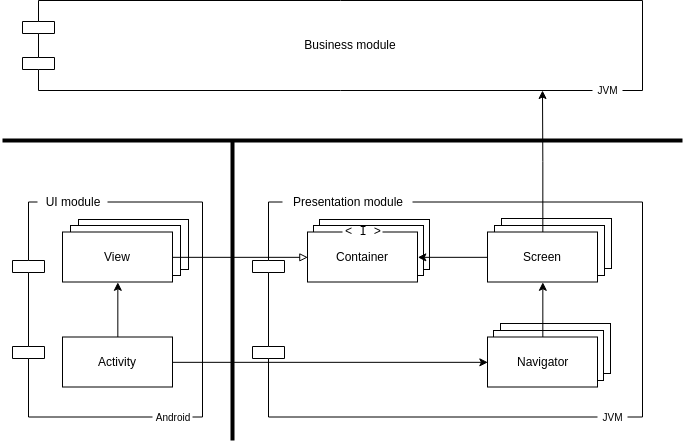
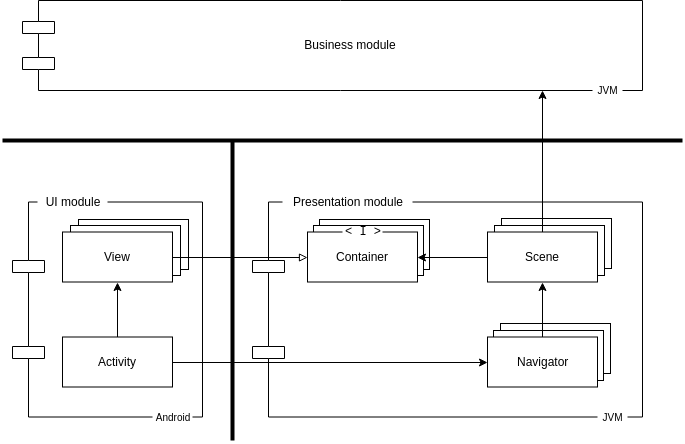
Update README

diff --git a/README.md b/README.md
@@ -13,6 +13,37 @@ separation between UI, presentation and navigation.
   <img src=".github/art/diagram_readme.png">
 </p>
 
+The core of Bravo consists of two interfaces: `Scene` and `Navigator`.
+
+Scenes represent destinations in the application where the user can navigate to.
+Often these are the screens of the application, but they can represent any
+navigational node in the application.
+
+Navigators control the navigational state of the application.
+They respond to events emitted by Scenes and update the navigational state
+accordingly, for example by changing the active Scene.
+
+Coupling to Android, the Activity subscribes to changes in Scenes by the
+Navigator, and provides the user interface.
+
+## Extensibility
+
+Bravo is fully extensible.
+The core artifacts (`bravo` and `bravo-android`) provide interfaces that are
+simple but powerful enough to form a basis for writing the presentation layer
+of mobile applications.
+
+The library also provides two base extension artifacts that can be used as a
+basis for the presentation layer of your application.  
+`ext-bravo` provides default base implementations for working with Scenes and
+Navigators.  
+`ext-bravo-android` provides a mechanism to couple the Android framework to
+your application.
+
+Lastly, there are some helper extension artifacts that provide useful utility
+implementations which use external dependencies, such as RxJava or Android
+LiveData.
+
 ## Setup
 
 Bravo currently only exists as a SNAPSHOT.
@@ -26,34 +57,30 @@ You can declare the dependencies as follows, replacing `x.x.x` by the latest
 snapshot version:
 
 ```groovy
-// Core artifacts containing interfaces only
-implementation "com.nhaarman.bravo:bravo:x.x.x-SNAPSHOT"
-implementation "com.nhaarman.bravo:bravo-android:x.x.x-SNAPSHOT"
-
-// Artifacts that extend upon the core
+// To get started quickly, add the following artifacts
 implementation "com.nhaarman.bravo.ext:bravo:x.x.x-SNAPSHOT"
-implementation "com.nhaarman.bravo.ext:bravo-rx:x.x.x-SNAPSHOT"
 implementation "com.nhaarman.bravo.ext:bravo-android:x.x.x-SNAPSHOT"
-implementation "com.nhaarman.bravo.ext:bravo-android-testing:x.x.x-SNAPSHOT"
-implementation "com.nhaarman.bravo.ext:bravo-android-timber:x.x.x-SNAPSHOT"
 ```
 
-Bravo is built in two main parts: the core libraries and the extension libraries
-that implement the core.
-The core libraries provide the interfaces that carry the spirit of Bravo:
+As mentioned before, Bravo consists of a core and some extension artifacts.
+The core artifacts live in the `com.nhaarman.bravo` group:
 
 |Group| Artifact | Description | Dependencies|
 |-----|----------|-------------|-------------|
 |`com.nhaarman.bravo`| `bravo` | The core library, containing only the interfaces for Bravo without any functionality. | - |
 |`com.nhaarman.bravo`| `bravo-android` | The core library for Android, containing only the interfaces for working with Bravo on Android. | `com.nhaarman.bravo:bravo` |
 
-The extension libraries provide default implementations of the core:
+The extension libraries provide default implementations to the core, and live
+in the `com.nhaarman.bravo.ext` group:
 
 |Group| Artifact | Description | Dependencies|
 |-----|----------|-------------|-------------|
 |`com.nhaarman.bravo.ext`| `bravo` | The main extension on the Bravo core, providing default implementations. |`com.nhaarman.bravo:bravo`|
 |`com.nhaarman.bravo.ext`| `bravo-rx` | An RxJava extension for Bravo. |`com.nhaarman.bravo:bravo`|
+|`com.nhaarman.bravo.ext`| `bravo-testing` | Provides testing utilities for JVM tests. |`com.nhaarman.bravo:bravo`|
+||||
 |`com.nhaarman.bravo.ext`| `bravo-android` | The main extension on the Bravo-Android core, providing default implementations. |`com.nhaarman.bravo:bravo`<br>`com.nhaarman.bravo:bravo-android`|
 |`com.nhaarman.bravo.ext`| `bravo-android-testing` | Provides testing facilities for instrumentation testing with Bravo-Android. |`com.nhaarman.bravo:bravo`<br>`com.nhaarman.bravo:bravo-android`<br>`com.nhaarman.bravo.ext:bravo-android`|
 |`com.nhaarman.bravo.ext`| `bravo-android-timber` | Provides a `TimberLogger` |`com.nhaarman.bravo:bravo`<br>`com.nhaarman.bravo.ext:bravo`|
+|`com.nhaarman.bravo.ext`| `bravo-android-lifecycle` | Provides `LifecycleScene` |`com.nhaarman.bravo:bravo`<br>`com.nhaarman.bravo.ext:bravo`|
 
